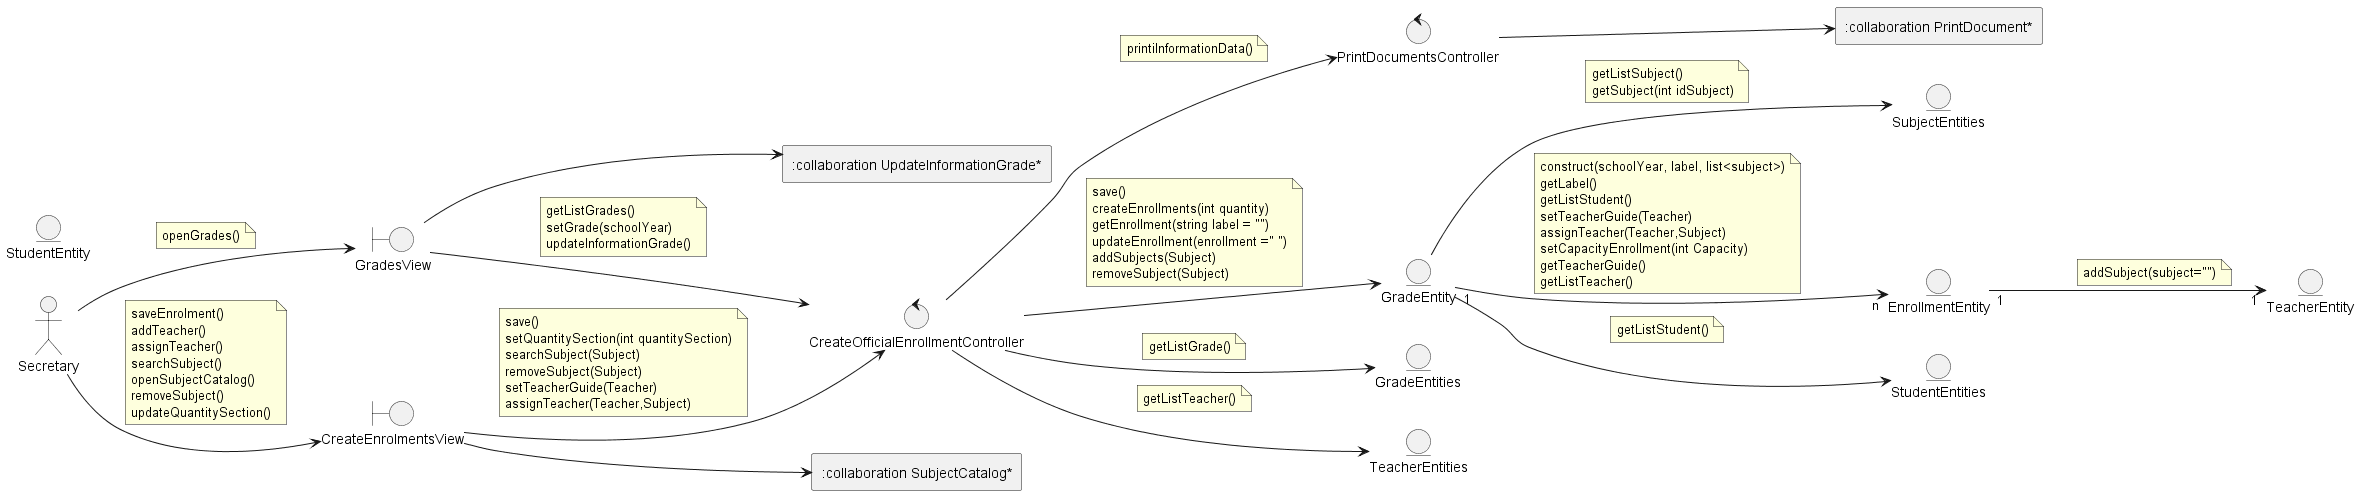
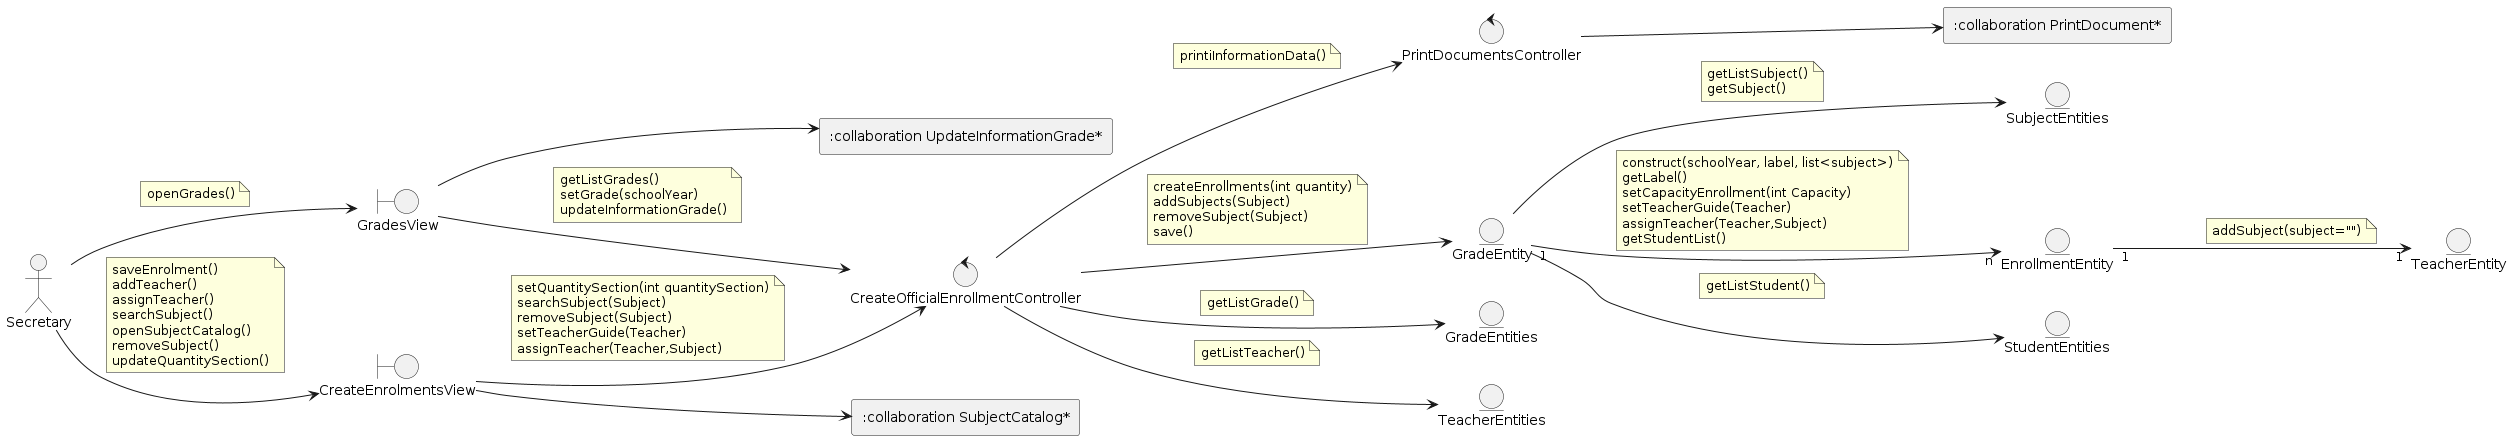
Feat: Update 1.Iteration.puml file, update the analysis Models classes.
Refs: #13

diff --git a/Review/analysis-view.class.md b/Review/analysis-view.class.md
@@ -19,6 +19,12 @@ Para la elaboración del análisis es necesario conocer los diagramas de colabor
     - [StudentEntities](#model2)
     - [StudentEntity](#model3)
     - [CashierEntity](#model4)
+    - [GradeEntity](#model5)
+    - [EnrollmentEntity](#model6)
+    - [SubjectEntities](#model7)
+    - [TeacherEntities](#model8)
+    - [TeacherEntity](#model9)
+    - [GradeEntities](#model10)
 ---
 
 
@@ -60,3 +66,21 @@ Para la elaboración del análisis es necesario conocer los diagramas de colabor
 
 * ### CashierEntity <a id="model4"></a>
 ![](../out/DesignView/AnalysisView/ClassAnalysis/Models/1.Iteration-page4.png)
+
+* ### GradeEntity <a id="model5"></a>
+![](../out/DesignView/AnalysisView/ClassAnalysis/Models/1.Iteration-page5.png)
+
+* ### EnrollmentEntity <a id="model6"></a>
+![](../out/DesignView/AnalysisView/ClassAnalysis/Models/1.Iteration-page6.png)
+
+* ### SubjectEntities <a id="model7"></a>
+![](../out/DesignView/AnalysisView/ClassAnalysis/Models/1.Iteration-page7.png)
+
+* ### TeacherEntities <a id="model8"></a>
+![](../out/DesignView/AnalysisView/ClassAnalysis/Models/1.Iteration-page8.png)
+
+* ### TeacherEntity <a id="model9"></a>
+![](../out/DesignView/AnalysisView/ClassAnalysis/Models/1.Iteration-page9.png)
+
+* ### GradeEntities <a id="model10"></a>
+![](../out/DesignView/AnalysisView/ClassAnalysis/Models/1.Iteration-page10.png)

diff --git a/Review/analysis-view.usecase.md b/Review/analysis-view.usecase.md
@@ -5,8 +5,8 @@ El detallado de las clases de estos casos de usos están en la carpeta de Análi
 
 ## Indice
 - [CU03. CollectTariffs](#cu03)
+- [CU05. CreateOfficialEnrollmentBySection](#cu05)
 - [CU01. EnrollStudent](#cu01)
-- [CU05. CreateOfficialEnrollmentBySection](#cu01)
 - [CU58. PritingReceipts](#cu58)
 - [CU29. PrintReportCardByStudent](#cu29)
 - [CU21. MoveTeacherGuideFromEnrollment](#cu21)
